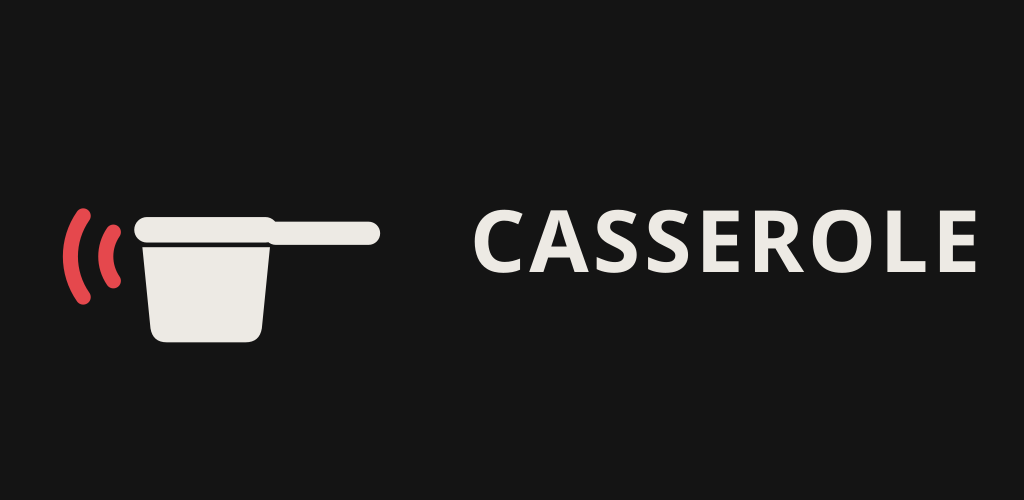
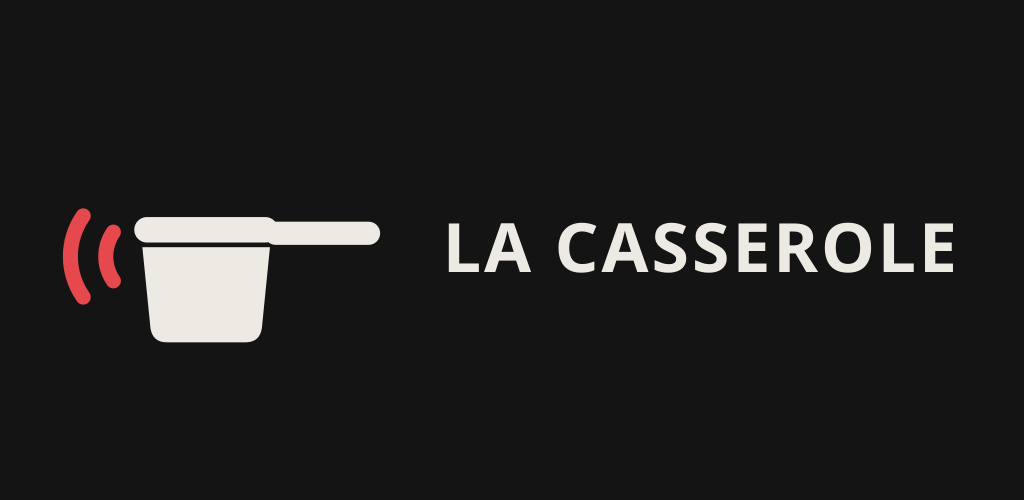
feat: rename the app to La Casserole
"Casserole" on its own is an ordinary English word for a baked dish, which
buries the app among recipe apps in an English store. The article makes it a
proper noun, searchable without ambiguity, and says where it comes from rather
than hiding it.

The name appears in five places that all have to agree: the project name, the
package label on both export presets, the skin's display name which titles the
playback notification, and the two store listings. The privacy page and the
banner carried it too; the banner text is centred now, since the longer name
ran off the right edge.

Verified on the built APK: application-label is 'La Casserole'.

The bilingual privacy page gains a sticky FR/EN switcher that jumps to the
matching section, and each section declares its lang for screen readers and
browser translation.

Changed region(s): [[0.4375, 0.42, 0.9688, 0.57]]

diff --git a/docs/index.html b/docs/index.html
@@ -3,7 +3,7 @@
 <head>
 <meta charset="utf-8">
 <meta name="viewport" content="width=device-width, initial-scale=1">
-<title>Casserole — Confidentialité / Privacy</title>
+<title>La Casserole — Confidentialité / Privacy</title>
 <style>
   :root { color-scheme: dark; }
   body {
@@ -17,16 +17,37 @@
   code { background: #232323; padding: .1em .35em; border-radius: 4px; font-size: .9em; }
   hr { border: none; border-top: 1px solid #2c2c2c; margin: 3.5em 0; }
   .date { color: #8a8a8a; font-size: .9rem; }
+  /* Sticky so the other language stays one tap away however far you scroll. */
+  .langs {
+    position: sticky; top: 0; z-index: 1;
+    display: flex; gap: .5rem; justify-content: flex-end;
+    margin: -48px -20px 24px; padding: 12px 20px;
+    background: #141414; border-bottom: 1px solid #2c2c2c;
+  }
+  .langs a {
+    color: #cdc9c2; text-decoration: none;
+    padding: .3em .8em; border: 1px solid #3a3a3a; border-radius: 999px;
+    font-size: .85rem; letter-spacing: .04em;
+  }
+  .langs a:hover, .langs a:focus { color: #EDEAE4; border-color: #E5484D; }
+  /* Keeps a heading clear of the sticky bar when jumped to. */
+  section { scroll-margin-top: 64px; }
 </style>
 </head>
 <body>
 
-<h1>Casserole</h1>
+<nav class="langs">
+  <a href="#fr" hreflang="fr">FR</a>
+  <a href="#en" hreflang="en">EN</a>
+</nav>
+
+<section id="fr" lang="fr">
+<h1>La Casserole</h1>
 <p class="date">Politique de confidentialité — dernière mise à jour : 10 septembre 2026</p>
 
 <h2>Ce que l'application collecte</h2>
 <p><strong>Rien.</strong> Aucune donnée personnelle n'est collectée, stockée, transmise ni partagée.</p>
-<p>Casserole n'a pas de compte, pas de formulaire, pas de mesure d'audience, pas de publicité, pas de traceur.
+<p>La Casserole n'a pas de compte, pas de formulaire, pas de mesure d'audience, pas de publicité, pas de traceur.
 L'application ne demande aucune permission réseau : elle est techniquement incapable d'envoyer quoi que ce soit,
 à qui que ce soit.</p>
 
@@ -54,14 +75,17 @@ pas plus que pour les autres utilisateurs.</p>
 <h2>Contact</h2>
 <p>CONTACT_EMAIL</p>
 
+</section>
+
 <hr>
 
-<h1>Casserole</h1>
+<section id="en" lang="en">
+<h1>La Casserole</h1>
 <p class="date">Privacy policy — last updated: 10 September 2026</p>
 
 <h2>What the app collects</h2>
 <p><strong>Nothing.</strong> No personal data is collected, stored, transmitted or shared.</p>
-<p>Casserole has no account, no form, no analytics, no advertising and no tracker. The app requests no
+<p>La Casserole has no account, no form, no analytics, no advertising and no tracker. The app requests no
 network permission whatsoever: it is technically unable to send anything, to anyone.</p>
 
 <h2>Permissions requested</h2>
@@ -84,6 +108,7 @@ with the app. Nothing leaves the phone.</p>
 
 <h2>Contact</h2>
 <p>CONTACT_EMAIL</p>
+</section>
 
 </body>
 </html>

diff --git a/store/listing-fr.md b/store/listing-fr.md
@@ -1,7 +1,7 @@
 # Fiche Play — français (fr-FR)
 
 ## Nom de l'application (30 caractères max)
-Casserole
+La Casserole
 
 ## Description courte (80 caractères max)
 On peut t'empêcher d'emmener une casserole. Pas ton téléphone.

diff --git a/store/listing-en.md b/store/listing-en.md
@@ -1,7 +1,7 @@
 # Play listing — English (en-US)
 
 ## App name (30 characters max)
-Casserole
+La Casserole
 
 ## Short description (80 characters max)
 They can stop you bringing a pot. They can't stop your phone.
